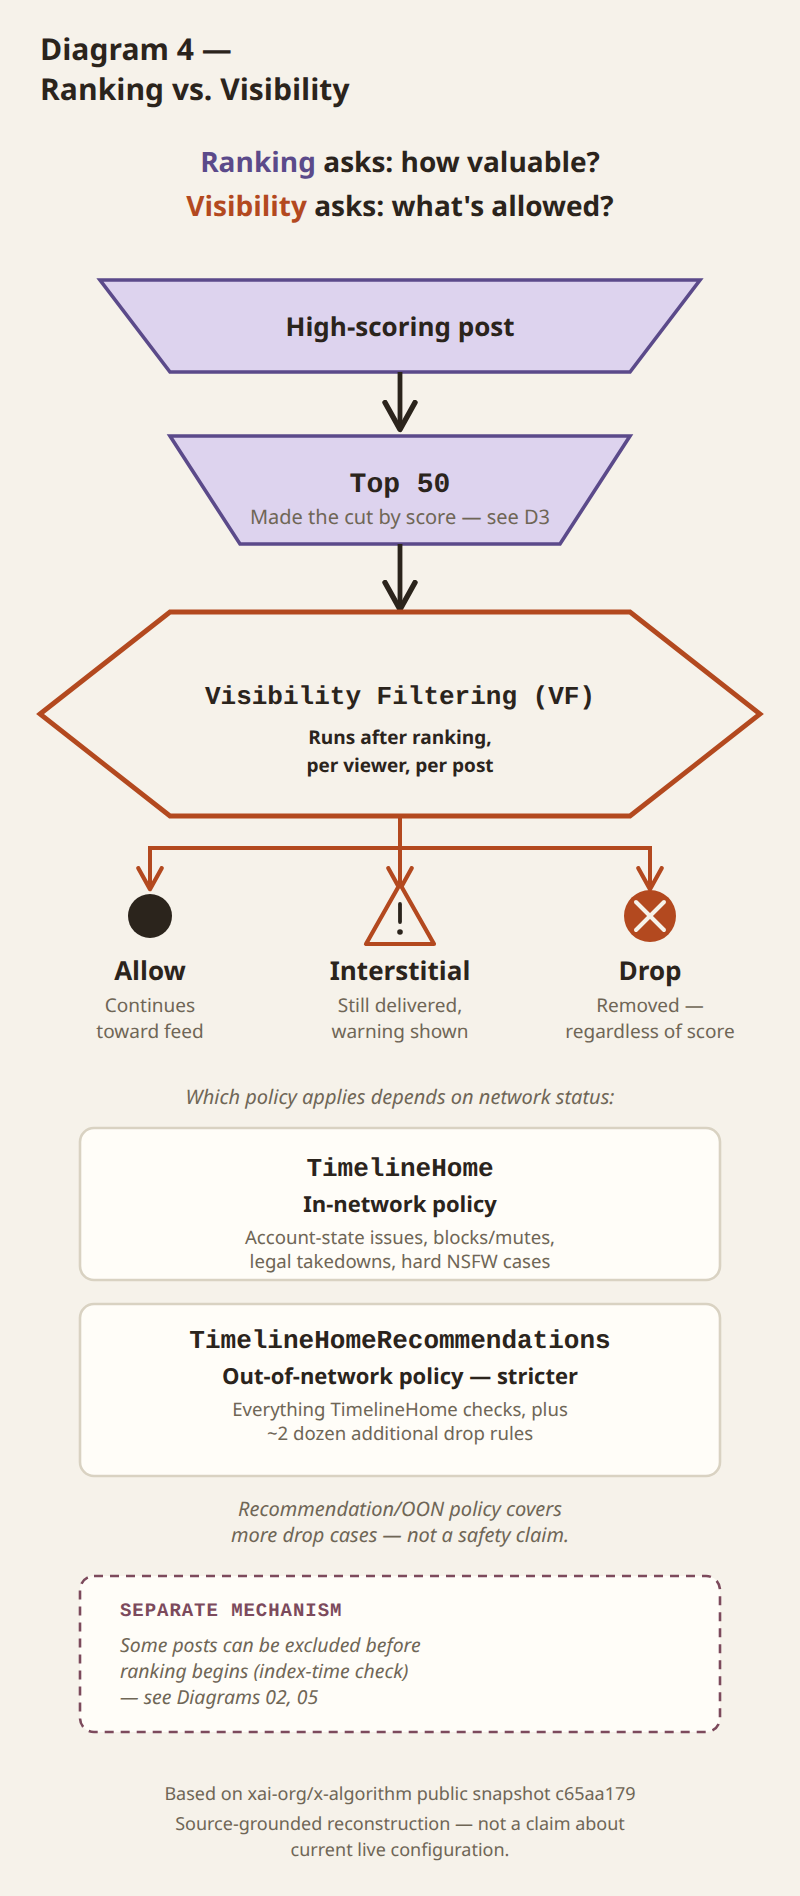
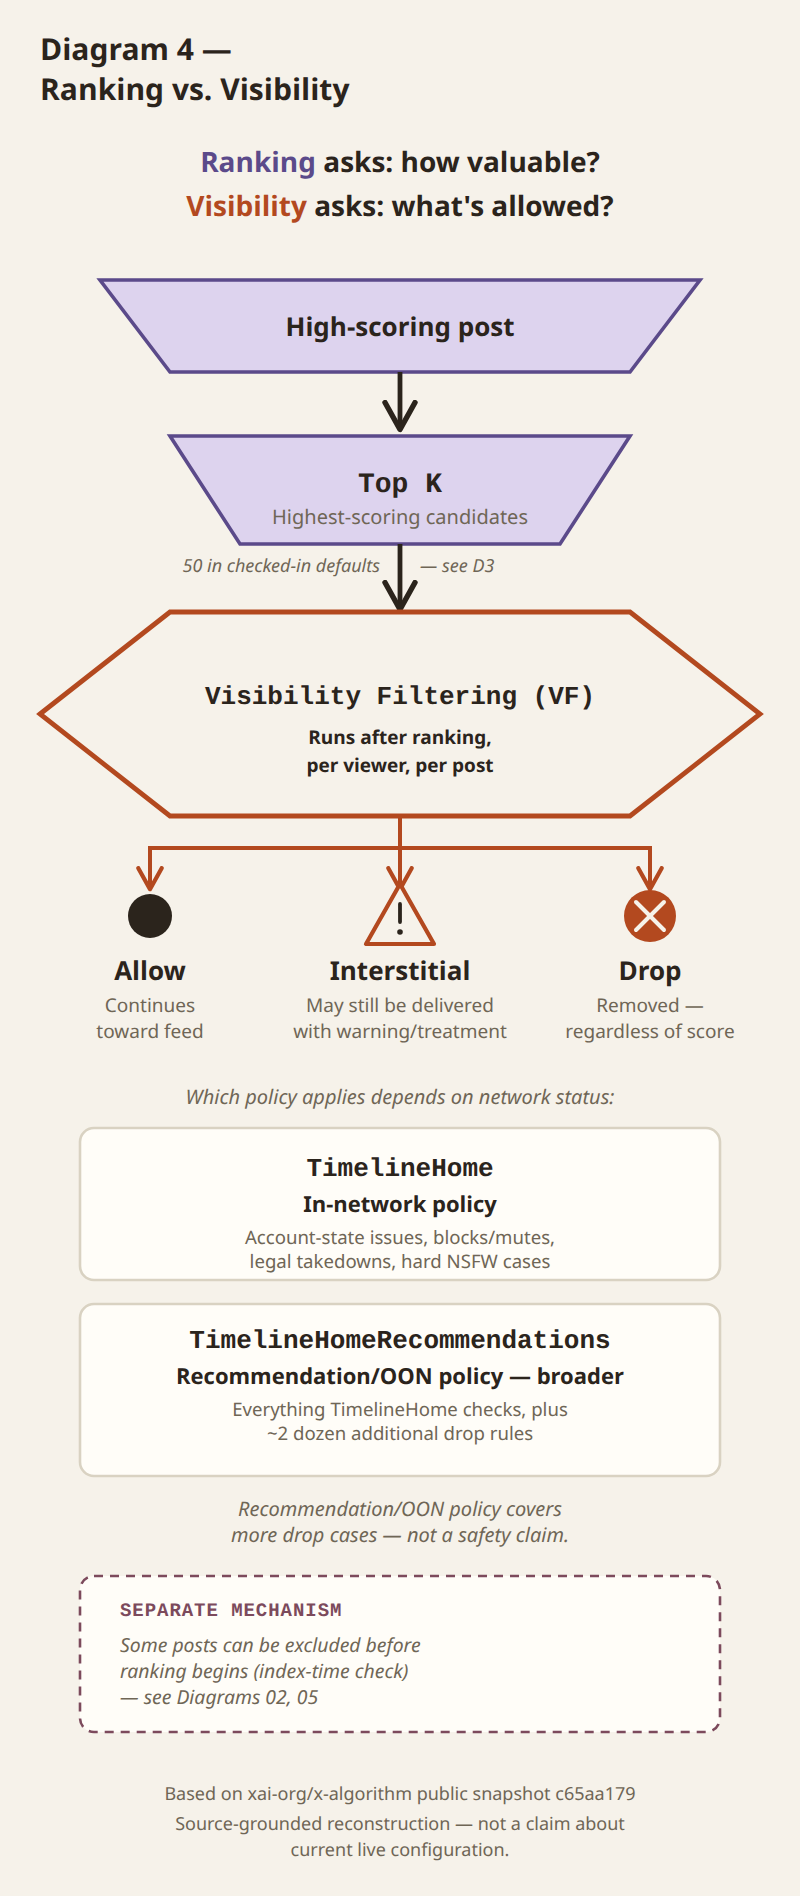
explainers: refine D4 after visual review
Five targeted corrections from human visual review, all diagram-local
(no Field Atlas token/shape/component changed):

1. Top-K epistemic fix: "Top 50" -> "Top K" / "Highest-scoring candidates"
   plus a subordinate checked-in-default badge ("50 in checked-in
   defaults"), on desktop/dark/mobile. Social keeps its deliberate
   simplification (no Top K node).
2. Interstitial wording: "Delivered, with a tap-through warning" ->
   "May still be delivered / with warning/treatment" (desktop/dark/mobile)
   or "Warning / treatment" (social) — no longer implies one universal UI.
3. Social double-arrow bug: merged two consecutive arrow-primary paths
   (a leftover from the Top-K-less crop) into one.
4. Desktop/dark callout polish: re-routed the SEPARATE MECHANISM leader
   line to land above "High-scoring post" instead of its side corner, so
   it reads as upstream/pre-ranking rather than a mid-flow branch.
5. Policy wording: "Out-of-network policy -- stricter" -> "Recommendation/
   OON policy -- broader" on all variants showing the comparison strip.

Verified via pixel-diff against the prior commit's PNGs that each file's
changes are exactly the five edits above and nothing else. Dimensions
unchanged. field-atlas.css untouched; sync --check passes. D4 stays
REVIEWED.

Changed region(s): [[0.2812, 0.2489, 0.6875, 0.3112], [0.2188, 0.7157, 0.7812, 0.7468], [0.375, 0.529, 0.625, 0.5601]]

diff --git a/_explainers/assets/README.md b/_explainers/assets/README.md
@@ -257,8 +257,11 @@ self-containment reasons above.
 ## D4 content contract (Part 3) — what's on the diagram and why
 
 Primary spine, matches `../diagram-design/D4_PRODUCTION_SPEC.md`'s "Core
-composition" exactly: High-scoring post → Top 50 → Visibility Filtering (VF)
-→ Allow / Interstitial / Drop, one fork, three terminal states.
+composition" exactly: High-scoring post → Top K → Visibility Filtering (VF)
+→ Allow / Interstitial / Drop, one fork, three terminal states. (Originally
+labeled "Top 50" — renamed to "Top K" plus a subordinate checked-in-default
+annotation after human visual review; see "Correction pass after human
+visual review" below.)
 
 **A composition ambiguity in the production spec, resolved:** the spec's
 prose says the funnel "forks visibly into two policy lanes... each ending in
@@ -299,17 +302,18 @@ brief's supplied snapshot identifier.
 |---|---|---|---|
 | A. Desktop/article | `src/d4-ranking-vs-visibility.svg` | 1600×900 | Canonical. Full content: header pairing, primary fork, secondary IN/OON strip, index-time note, provenance footer. |
 | B. Dark desktop | `src/d4-ranking-vs-visibility-dark.svg` | 1600×900 | Identical structure to A; only the inline token block differs (see "Why each SVG is self-contained" above). |
-| C. Mobile | `src/d4-ranking-vs-visibility-mobile.svg` | 400×948 | Vertical. Same primary spine (post → Top 50 → VF → fork); three outcomes stay side-by-side in three narrow columns rather than stacking, since they fit at this width without crowding; IN/OON becomes two stacked cards (not side-by-side); index-time note becomes a compact footnote card; header/subtitle copy condensed (see below) without dropping any claim. |
+| C. Mobile | `src/d4-ranking-vs-visibility-mobile.svg` | 400×948 | Vertical. Same primary spine (post → Top K → VF → fork); three outcomes stay side-by-side in three narrow columns rather than stacking, since they fit at this width without crowding; IN/OON becomes two stacked cards (not side-by-side); index-time note becomes a compact footnote card; header/subtitle copy condensed (see below) without dropping any claim. |
 | D. Social/share card | `src/d4-ranking-vs-visibility-social.svg` | 1200×675 | Funnel + fork + header only, per spec — no secondary strip, no index-time note. Carries the one-line headline claim large and a minimal provenance mark. |
 
 **Mobile copy compression, specifically:** the header pairing shortens from
 full quoted questions ("Ranking asks: 'How valuable might this be to this
 viewer?'") to "Ranking asks: how valuable?" — same claim, no information
 dropped, just fewer words, matching the phase brief's own suggested
-condensed header form. Outcome subtitles compress similarly ("Delivered,
-with a tap-through warning" → "Still delivered, / warning shown") while
-preserving the one distinction that must never be lost: Interstitial is
-still delivered, Drop is removed. Verified this distinction survives at
+condensed header form. Outcome subtitles compress similarly (currently "May
+still be delivered / with warning/treatment" — see "Correction pass after
+human visual review" below for the wording history) while preserving the
+one distinction that must never be lost: Interstitial is still delivered,
+Drop is removed. Verified this distinction survives at
 mobile scale during visual QA.
 
 ---
@@ -448,3 +452,58 @@ the `svg` type selector, which matches the same physical `<svg>` element
 standalone. After the fix, all four exports are byte-identical to the
 previously-committed, already-QA'd PNGs — this patch changed the maintenance
 architecture, not the rendered output.
+
+## Correction pass after human visual review
+
+Field Atlas itself and D4's overall composition were approved as-is. Five
+targeted content/wording corrections were made, all in diagram-local markup
+— no shared token, shape convention, or component changed:
+
+1. **Top-K epistemic fix.** `Top 50` read as an unconditional architectural
+   fact. Renamed the node to `Top K` / "Highest-scoring candidates" (desktop,
+   dark, mobile — social never had this node, by original design, and stays
+   that way), with a small, visually subordinate checked-in-default
+   annotation ("50 in checked-in defaults") beside it — a plain outlined tag
+   per `COMPONENT_LIBRARY.md` item 13's badge convention, not a fourth new
+   shape. Mobile's first attempt at this annotation collided with the
+   primary-flow arrow (the arrow was drawn directly through the centered
+   text); fixed the same way the very first implementation pass fixed an
+   analogous collision — split into two pieces flanking the arrow rather
+   than centered on it.
+2. **Interstitial wording.** "Delivered, with a tap-through warning" named
+   one specific, universal UI treatment the production spec doesn't actually
+   guarantee. Desktop/dark/mobile now read "May still be delivered / with
+   warning/treatment"; social (which has no room for two-line subtitles)
+   reads "Warning / treatment." Interstitial vs. Drop remains unambiguous
+   either way — the glyph (triangle vs. X-circle) already carried that
+   distinction, and still does.
+3. **Social double arrow.** A leftover artifact from the social crop's
+   original simplification (Top K removed, but two arrow segments that used
+   to sandwich it were never merged) — two consecutive `arrow-primary`
+   paths between "High-scoring post" and the VF hexagon, producing two
+   visible arrowheads in a straight line. Merged into one path. Confirmed
+   via the pixel-diff below that this was the only structural change to the
+   social card beyond the wording edits.
+4. **Callout leader-line polish (desktop/dark only, optional).** The
+   "SEPARATE MECHANISM" dotted connector previously ended at the
+   "High-scoring post" shape's side corner, reading as a branch off the main
+   flow. Re-routed to land at the shape's top-center instead — same box
+   position, same "not part of the fork" framing, but now reads as
+   upstream/before the pipeline starts rather than a mid-flow branch.
+5. **Policy wording (optional).** "Out-of-network policy — stricter" →
+   "Recommendation/OON policy — broader" on all three variants that show the
+   comparison strip (desktop, dark, mobile — social never shows it). Same
+   underlying fact (meaningfully more drop rules apply), less room for a
+   moral/harshness reading at a glance. The framing line beneath the two
+   cards already said "covers more drop cases, not a claim that OON content
+   is unsafe" and didn't need to change.
+
+**Verification:** pixel-diffed every export against the prior commit's
+already-approved PNGs (`compare -metric AE` + a difference-composite
+visualization). All five changes are the *only* pixels that moved in each
+file — confirmed visually per file, not assumed. Dimensions unchanged (light/
+dark 3200×1800 @ 1600×900 logical, mobile 800×1896 @ 400×948 logical, social
+2400×1350 @ 1200×675 logical). `sync-svg-styles.py --check` passes; no
+`field-atlas.css` token changed, so this pass required no re-sync beyond
+confirming the shared block was already current. D4 stays REVIEWED, not
+promoted to FINAL, pending the next human pass.
